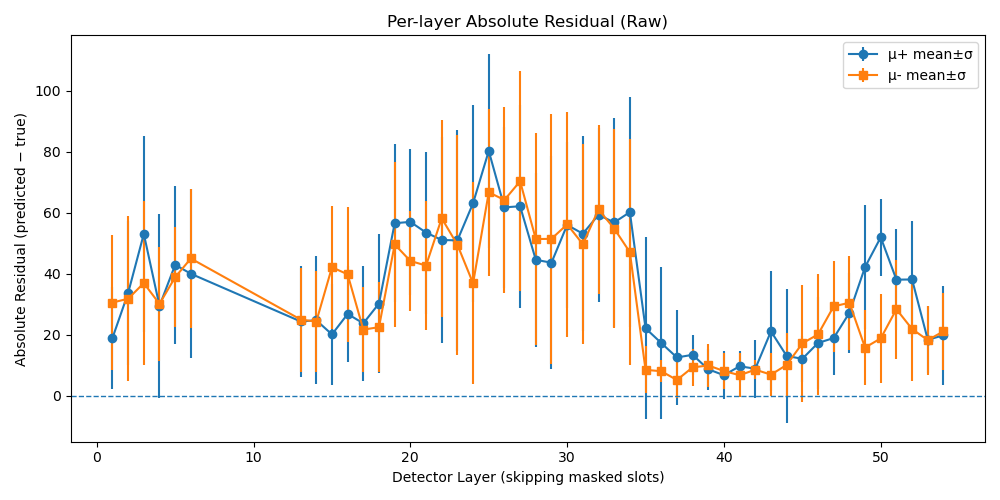
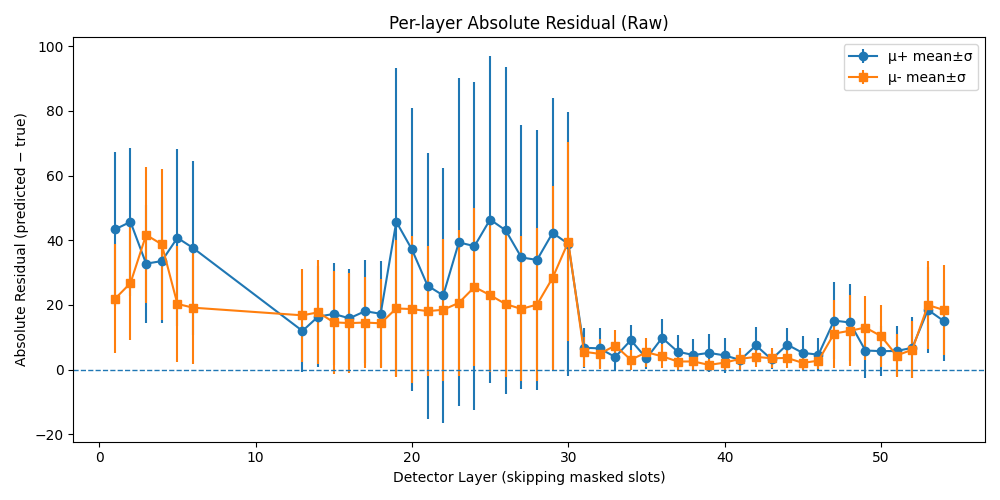
Fixed bugs in U-Net++ scripts

diff --git a/QTracker_prod/models/TrackFinder_unetpp.py b/QTracker_prod/models/TrackFinder_unetpp.py
@@ -112,12 +112,13 @@ def build_model(
     use_bn=False,
     dropout_bn=0.0,
     dropout_enc=0.0,
+    base=64,
     deep_supervision=False,
 ):
     input_layer = layers.Input(shape=(num_detectors, num_elementIDs, 1))
 
     # Zero padding (aligns to closest 2^n -> preserves input shape)
-    filters = [64, 128, 256, 512, 1024]
+    filters = [base, base*2, base*4, base*8, base*16]
     num_pool = 2**(len(filters) - 1)  # 2 ^ n, n = number of max pooling
     closest_even_det = num_pool * math.ceil(num_detectors / num_pool)
     closest_even_elem = num_pool * math.ceil(num_elementIDs / num_pool)
@@ -139,7 +140,7 @@ def build_model(
     X[1][0] = conv_block(pool1, filters[1], use_bn=use_bn)
     pool2 = layers.MaxPooling2D(pool_size=(2, 2))(X[1][0])
 
-    X[2][0] = conv_block(pool2, filters[2], use_bn=use_bn)
+    X[2][0] = conv_block(pool2, filters[2], use_bn=use_bn, dropout_enc=dropout_enc)
     pool3 = layers.MaxPooling2D(pool_size=(2, 2))(X[2][0])
 
     X[3][0] = conv_block(pool3, filters[3], use_bn=use_bn, dropout_enc=dropout_enc)
@@ -182,6 +183,7 @@ def train_model(
     use_bn=False,
     dropout_bn=0.0,
     dropout_enc=0.0,
+    base=64,
     deep_supervision=True,
 ):
     X_train, y_muPlus_train, y_muMinus_train = load_data(train_root_file)
@@ -207,8 +209,9 @@ def train_model(
 
     model = build_model(
         use_bn=use_bn, dropout_bn=dropout_bn, 
-        dropout_enc=dropout_enc, deep_supervision=deep_supervision,
+        dropout_enc=dropout_enc, base=base, deep_supervision=deep_supervision,
     )
+    model.summary()
 
     optimizer = tf.keras.optimizers.Adam(learning_rate=learning_rate)
     model.compile(optimizer=optimizer, loss=custom_loss, metrics=["accuracy"])
@@ -216,8 +219,8 @@ def train_model(
     history = model.fit(
         X_train,
         y_train,
-        epochs=40,
-        batch_size=32,
+        epochs=70,
+        batch_size=64,
         validation_data=(X_val, y_val),
         callbacks=[lr_scheduler, early_stopping],
     )
@@ -284,6 +287,12 @@ if __name__ == "__main__":
         help="Dropout rate for encoder blocks.",
     )
     parser.add_argument(
+        "--base",
+        type=int,
+        default=64,
+        help="Number of base channels in U-Net++.",
+    )
+    parser.add_argument(
         "--deep_supervision",
         type=int,
         default=1,
@@ -300,5 +309,6 @@ if __name__ == "__main__":
         use_bn=bool(args.batch_norm),
         dropout_bn=args.dropout_bn,  # recommend 0.5 as starting point,
         dropout_enc=args.dropout_enc,  # recommend 0.1-0.3 as starting point
+        base=args.base,
         deep_supervision=bool(args.deep_supervision),
     )

diff --git a/QTracker_prod/evaluate.py b/QTracker_prod/evaluate.py
@@ -40,7 +40,7 @@ def plot_residuals(det_ids, res_plus, res_minus, model_path, stage_label):
     plt.savefig(os.path.join(plot_dir, fname))
     plt.show()
 
-def evaluate_model(root_file, model_path, use_bn=False):
+def evaluate_model(root_file, model_path, use_bn=False, base=64, deep_supervision=False):
     X_test, y_muPlus_test, y_muMinus_test = data_loader.load_data(root_file)
     if X_test is None:
         return
@@ -59,7 +59,11 @@ def evaluate_model(root_file, model_path, use_bn=False):
     }
     with tf.keras.utils.custom_object_scope(custom_objects):
         if ".weights.h5" in model_path:
-            model = TrackFinder_unetpp.build_model(use_bn=use_bn, deep_supervision=False)
+            model = TrackFinder_unetpp.build_model(
+                use_bn=use_bn, 
+                base=base,
+                deep_supervision=deep_supervision
+            )
             model.load_weights(model_path)
         else:
             model = tf.keras.models.load_model(model_path)
@@ -163,7 +167,9 @@ if __name__ == '__main__':
     parser.add_argument("root_file",  type=str, help="Path to the val/test ROOT file.")
     parser.add_argument("model_path", type=str, help="Path to the saved model file (.h5 or .keras).")
     parser.add_argument("--batch_norm", type=int, default=0, help="Flag to set batch normalization: [0 = False, 1 = True].")
+    parser.add_argument("--base", type=int, default=64, help="Flag to set batch normalization: [0 = False, 1 = True].")
+    parser.add_argument("--deep_supervision", type=int, default=0, help="Flag to set batch normalization: [0 = False, 1 = True].")
     args = parser.parse_args()
 
     print(f"\nResults for {args.model_path}...")
-    evaluate_model(args.root_file, args.model_path, bool(args.batch_norm))
+    evaluate_model(args.root_file, args.model_path, bool(args.batch_norm), args.base, bool(args.deep_supervision))

diff --git a/QTracker_prod/models/TrackFinder_unet.py b/QTracker_prod/models/TrackFinder_unet.py
@@ -148,7 +148,8 @@ def train_model(train_root_file, val_root_file, output_model, learning_rate=0.00
     early_stopping = EarlyStopping(monitor="val_loss", patience=patience, restore_best_weights=True)
 
     model = build_model(use_bn=use_bn, dropout_bn=dropout_bn, dropout_enc=dropout_enc, backbone=backbone)
-    
+    model.summary()
+
     optimizer = tf.keras.optimizers.Adam(learning_rate=learning_rate)
     model.compile(
         optimizer=optimizer, 
@@ -156,7 +157,7 @@ def train_model(train_root_file, val_root_file, output_model, learning_rate=0.00
         metrics=['accuracy']
     )
     
-    history = model.fit(X_train, y_train, epochs=40, batch_size=32, validation_data=(X_val, y_val), callbacks=[lr_scheduler, early_stopping])
+    history = model.fit(X_train, y_train, epochs=70, batch_size=64, validation_data=(X_val, y_val), callbacks=[lr_scheduler, early_stopping])
 
     # Plot train and val loss over epochs
     plt.figure(figsize=(8, 6))

diff --git a/QTracker_prod/data/messy_gen.py b/QTracker_prod/data/messy_gen.py
@@ -4,7 +4,7 @@ from array import array
 import random
 
 # Detector efficiency probability
-NUM_TRACKS = 19
+NUM_TRACKS = 30
 PROB_MEAN = 0.9
 PROB_WIDTH = 0.1
 
